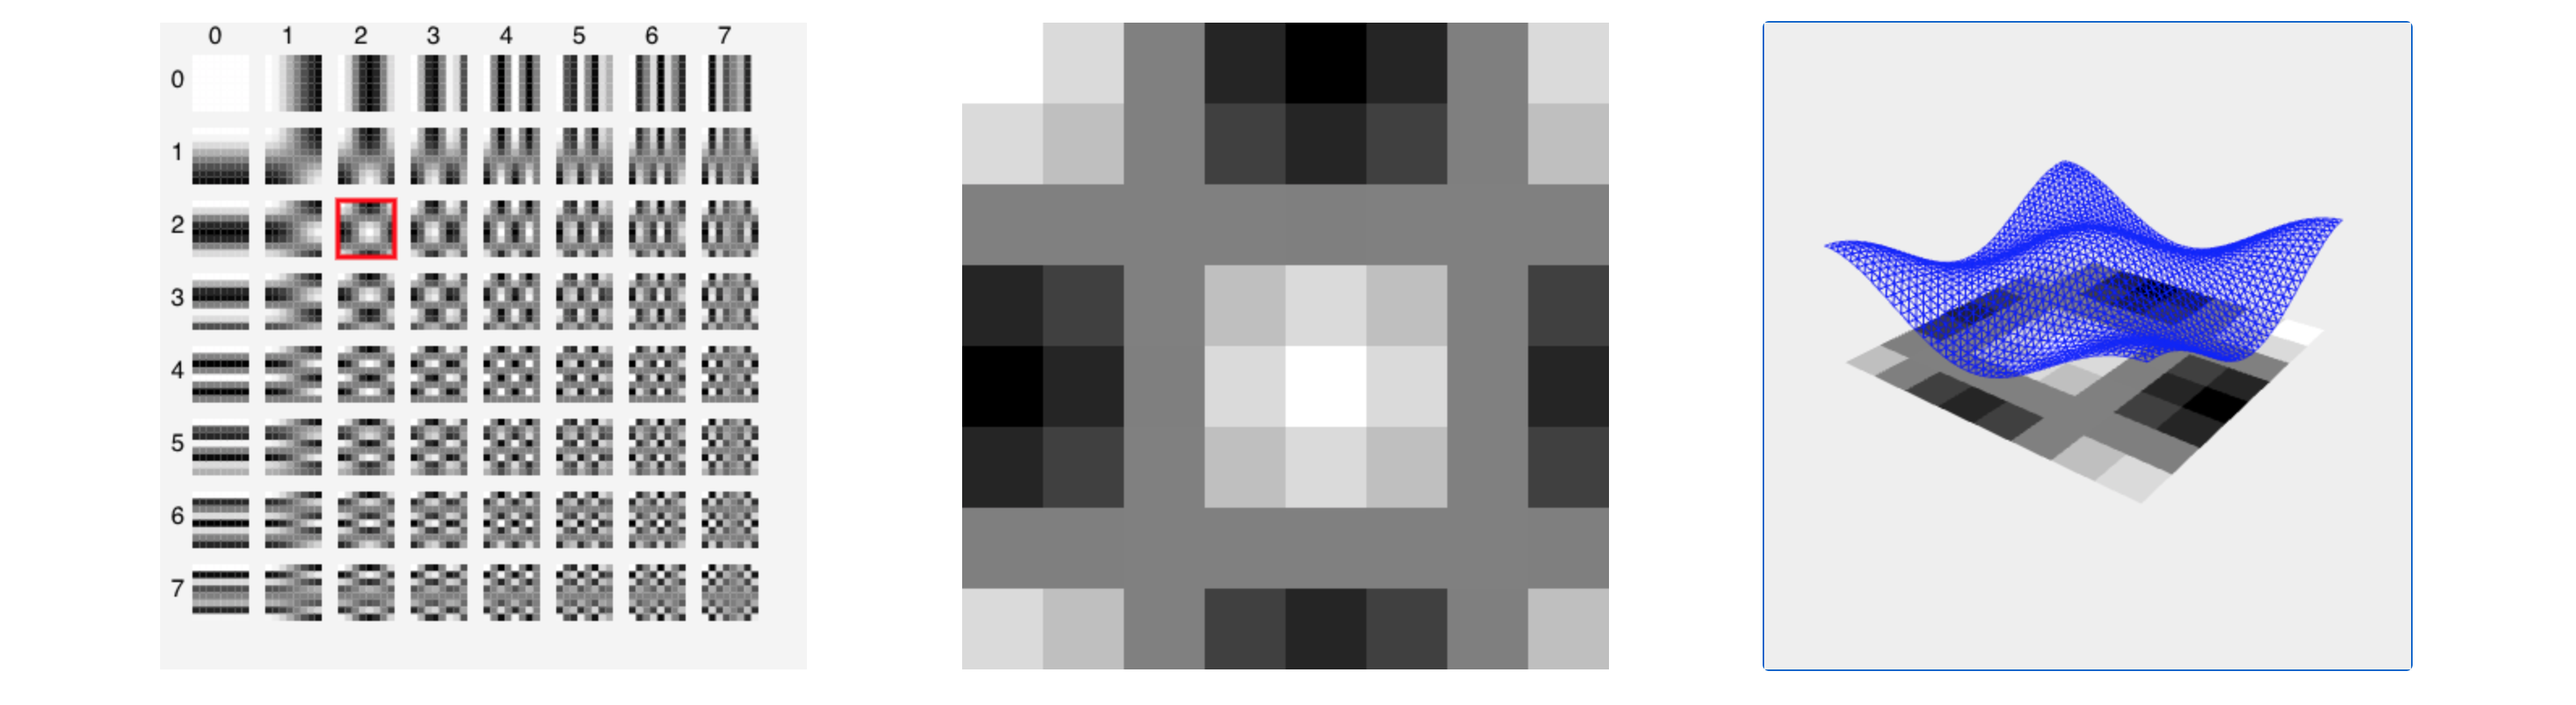
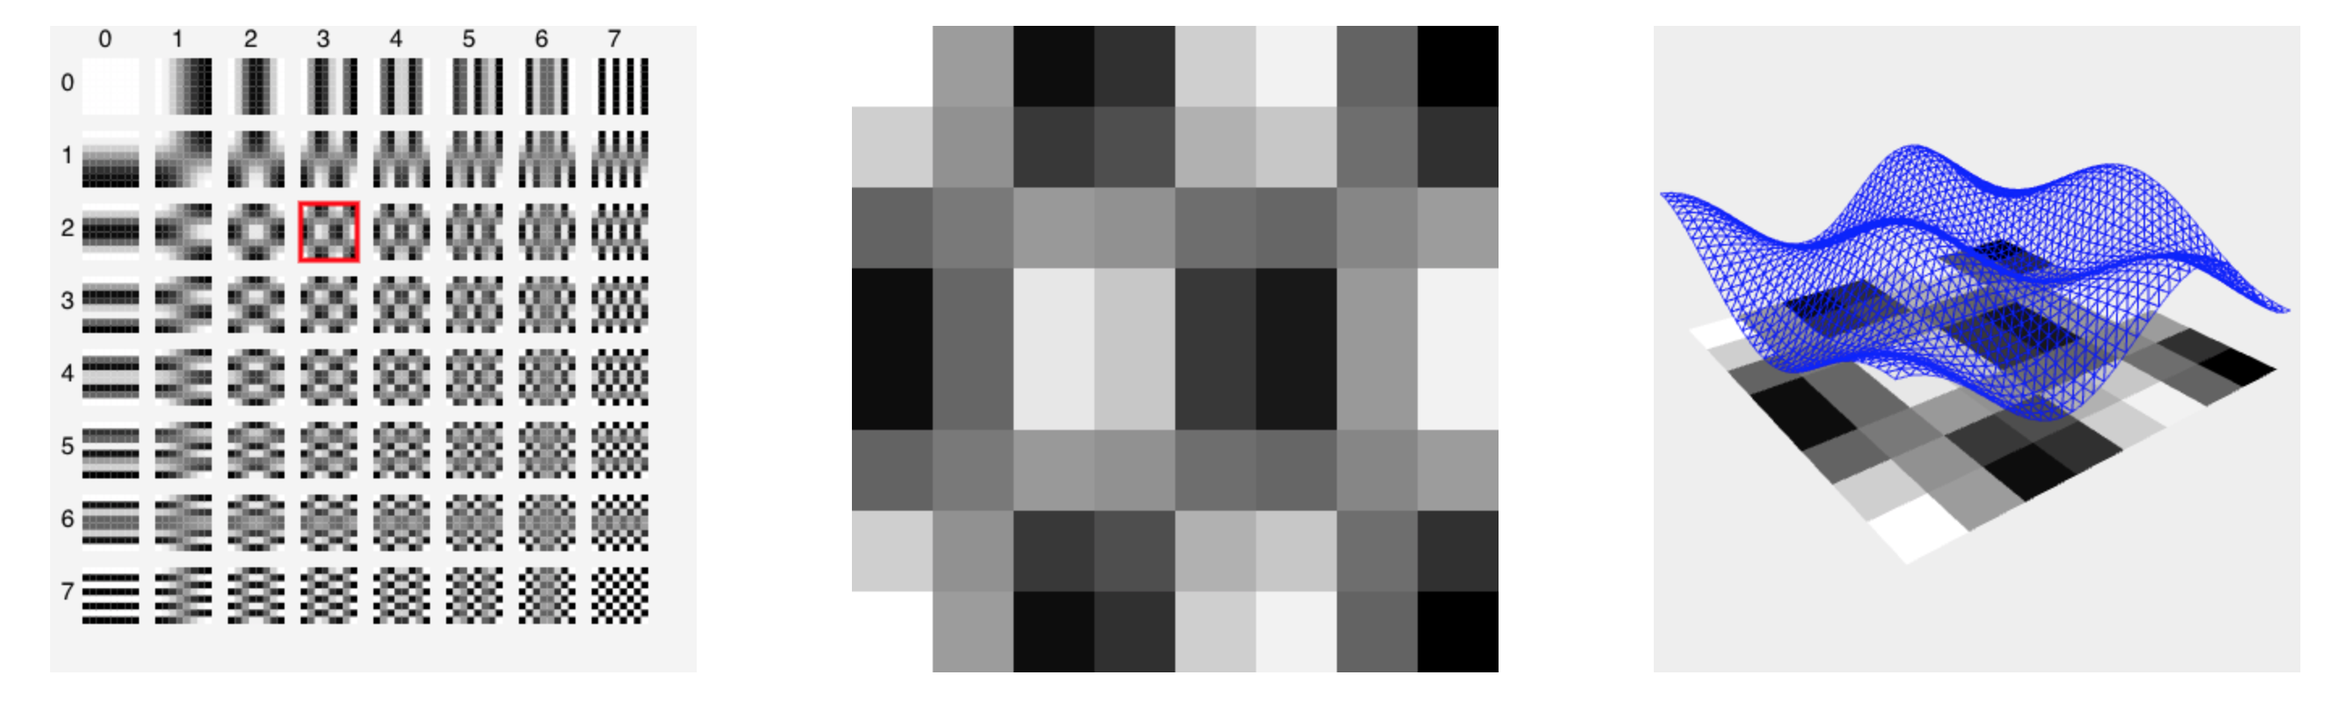
fix off by one error in dc table

diff --git a/src/discreteCosineHelper.js b/src/discreteCosineHelper.js
@@ -118,7 +118,7 @@ export function draw8x8Tile(n, m, x, y, w, h, context) {
         for (let j = 0; j < 8; ++j) {
             const x_i = i*stepX;
             const y_i = j*stepY;
-            const discCosine = getDiscCosine(i/8, j/8);
+            const discCosine = getDiscCosine(i/7, j/7);
             const val = discCosine(n, m);
             context.fillStyle = cosValueToRgb(val);
             context.fillRect(x + x_i, y + y_i, stepX, stepY);

diff --git a/src/cosine3dHelper.js b/src/cosine3dHelper.js
@@ -25,7 +25,7 @@ export function drawCosine3d(scene, n, m) {
         for (let j = 0; j < 8; ++j) {
             const x = -18 + i*5;
             const y = -18 + j*5;
-            const discCosine = getDiscCosine(i/8, j/8);
+            const discCosine = getDiscCosine(i/7, j/7);
             const val = discCosine(n, m);
 
             const pgeo = new THREE.PlaneBufferGeometry(size, size, 20, 20);

diff --git a/src/App.css b/src/App.css
@@ -9,7 +9,7 @@ input[type="range"] {
 }
 
 .slider-container {
-  padding: 1rem;
+  padding: 3rem 1rem;
 }
 
 .text-highlight {
